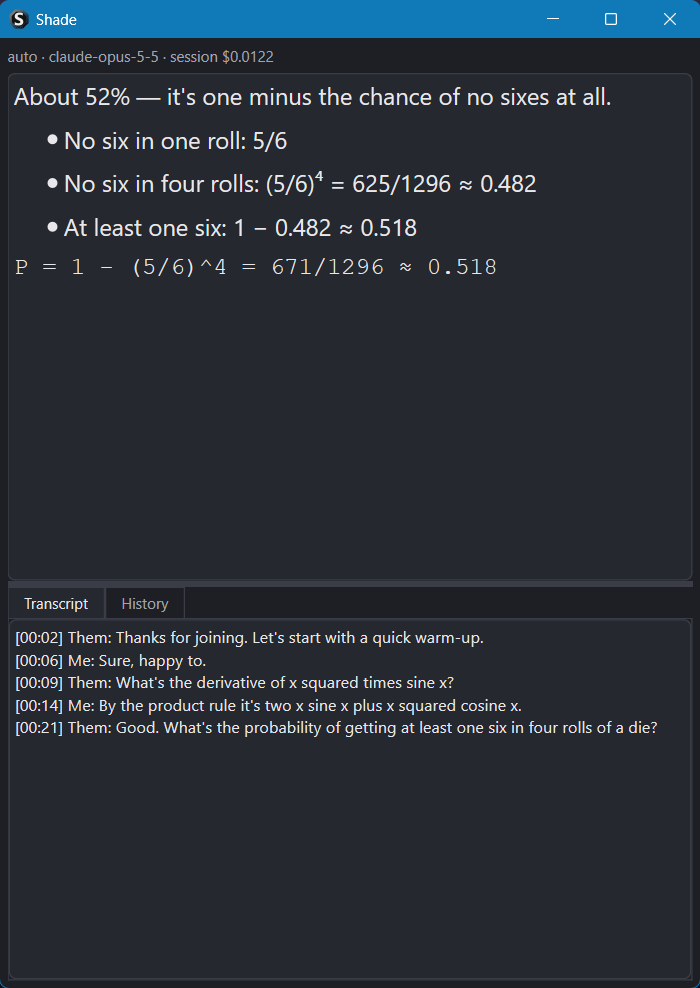
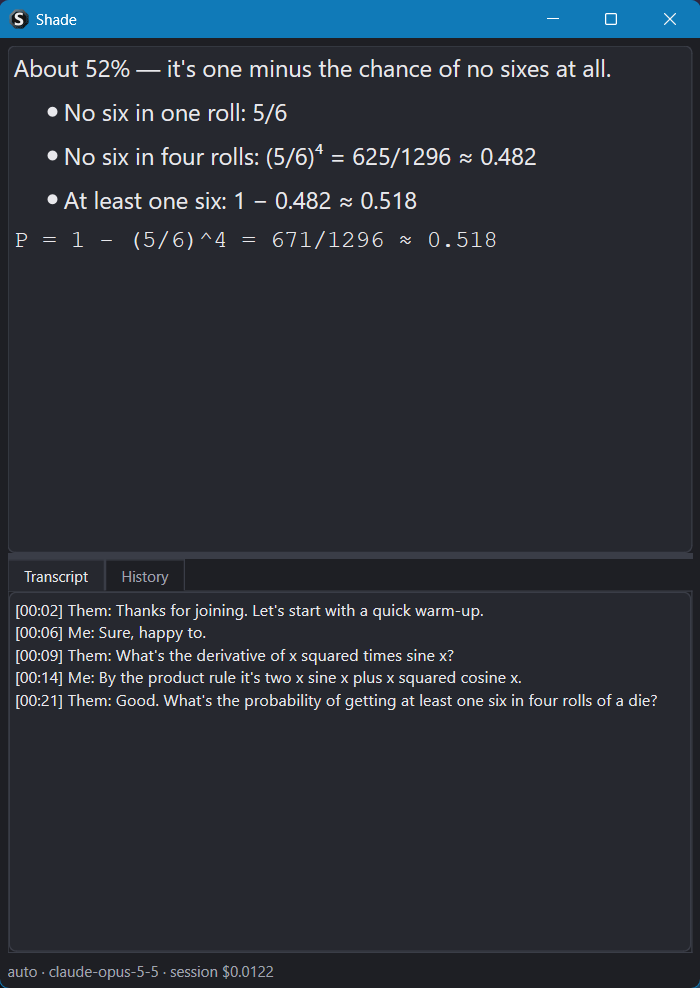
Status line (trigger, model, cost) at the bottom of the window and the overlay

diff --git a/src/shade/ui/hint_view.py b/src/shade/ui/hint_view.py
@@ -73,8 +73,7 @@ class HintView(QWidget):
 
         layout = QVBoxLayout(self)
         layout.setContentsMargins(6, 6, 6, 6)
-        layout.addWidget(self._status)
-        layout.addWidget(self._error)
+        layout.addWidget(self._error)  # alerts stay on top, next to the hint
 
         self.tabs: QTabWidget | None = None
         if compact:
@@ -86,6 +85,7 @@ class HintView(QWidget):
             self._fit_transcript_strip()
             layout.addWidget(self._current, 1)
             layout.addWidget(self._transcript)
+            layout.addWidget(self._status)  # trigger · model · cost, at the bottom
         else:
             # Window: current hint on top; transcript and history as tabs below.
             self.tabs = QTabWidget()
@@ -98,6 +98,7 @@ class HintView(QWidget):
             split.setStretchFactor(0, 3)
             split.setStretchFactor(1, 2)
             layout.addWidget(split, 1)
+            layout.addWidget(self._status)  # trigger · model · cost, at the bottom
 
     # ---- fonts ---------------------------------------------------------
 

diff --git a/tests/test_hint_view.py b/tests/test_hint_view.py
@@ -68,3 +68,21 @@ def test_compact_mode_has_no_history_and_fixed_transcript(qtbot):
     line = v._transcript.fontMetrics().lineSpacing()
     assert v._transcript.maximumHeight() <= 3 * line + 20
     assert v._transcript.minimumHeight() == v._transcript.maximumHeight()
+
+
+def test_status_line_is_at_the_bottom_in_window_mode(qtbot):
+    v = HintView()
+    qtbot.addWidget(v)
+    v.resize(500, 600)
+    v.show()
+    qtbot.waitExposed(v)
+    assert v._status.geometry().top() > v.tabs.geometry().bottom()
+
+
+def test_status_line_is_at_the_bottom_in_overlay_mode(qtbot):
+    v = HintView(transcript_lines=3, compact=True)
+    qtbot.addWidget(v)
+    v.resize(500, 400)
+    v.show()
+    qtbot.waitExposed(v)
+    assert v._status.geometry().top() > v._transcript.geometry().bottom()

diff --git a/tests/test_overlay.py b/tests/test_overlay.py
@@ -69,7 +69,7 @@ def test_overlay_blocks_are_2px_apart(qtbot):
     o.view._error.show()  # status, error, hint and transcript all present
     o.show()
     qtbot.waitExposed(o)
-    widgets = [o.view._status, o.view._error, o.view._current, o.view._transcript]
+    widgets = [o.view._error, o.view._current, o.view._transcript, o.view._status]
     for upper, lower in zip(widgets, widgets[1:]):
         gap = lower.geometry().top() - upper.geometry().bottom() - 1
         assert gap == 2, (upper, lower, gap)

diff --git a/src/shade/ui/overlay.py b/src/shade/ui/overlay.py
@@ -1,7 +1,7 @@
 """Semi-transparent always-on-top overlay mode.
 
 Frameless, so it draws its own thin frame: drag an edge or corner to resize,
-drag the status line at the top to move. Position and size are remembered.
+drag the status line at the bottom to move. Position and size are remembered.
 """
 
 from __future__ import annotations

diff --git a/README.md b/README.md
@@ -22,7 +22,8 @@ other side's screen.
 
 **Hint window** — the current hint on top (say the first lines out loud);
 below it, tabs with the live **Transcript** and the **History** of earlier
-hints. The status line shows the trigger, the model and the session cost.
+hints. The status line at the bottom shows the trigger, the model and the
+session cost.
 It has the program icon and the usual minimize, maximize and close buttons,
 but no taskbar button: minimize and close send it to the tray, and a click on
 the tray icon (or **Show**) brings it back. **Day** or **Night** theme in
@@ -41,7 +42,7 @@ Settings → Display.
 
 **Overlay** — the same hint on a semi-transparent layer over the call, with
 the last three transcript lines. Hidden from screen sharing. Drag its edges
-or corners to resize it, drag the status line at the top to move it;
+or corners to resize it, drag the status line at the bottom to move it;
 `Ctrl+Alt+O` shows or hides it. Background
 color, text color and background opacity are set in Settings → Display;
 the text itself stays fully opaque.
